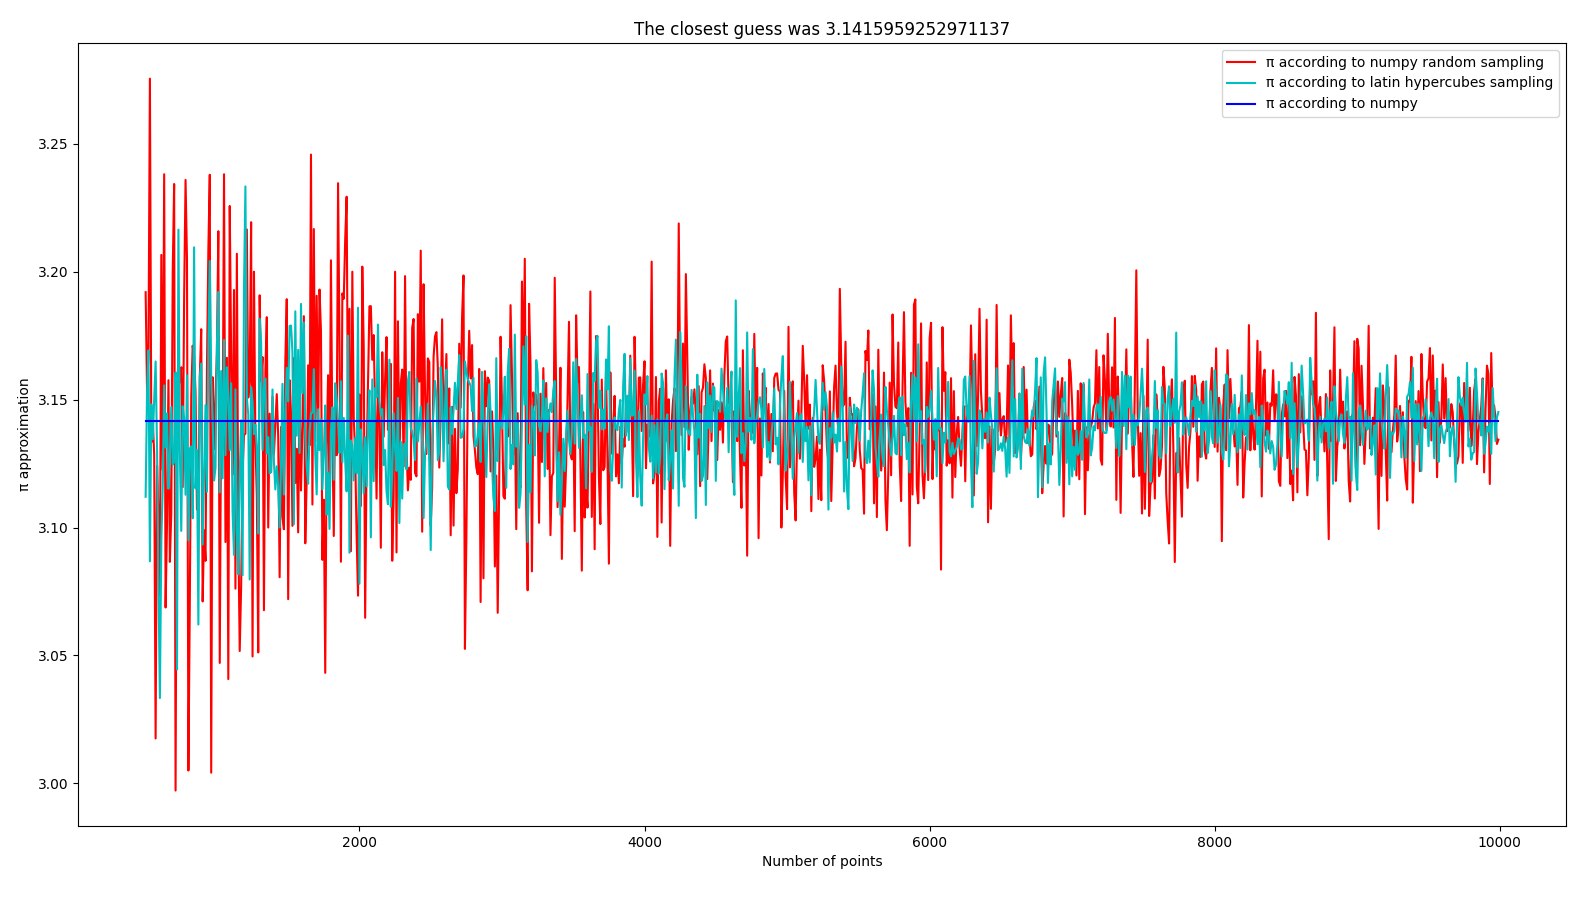
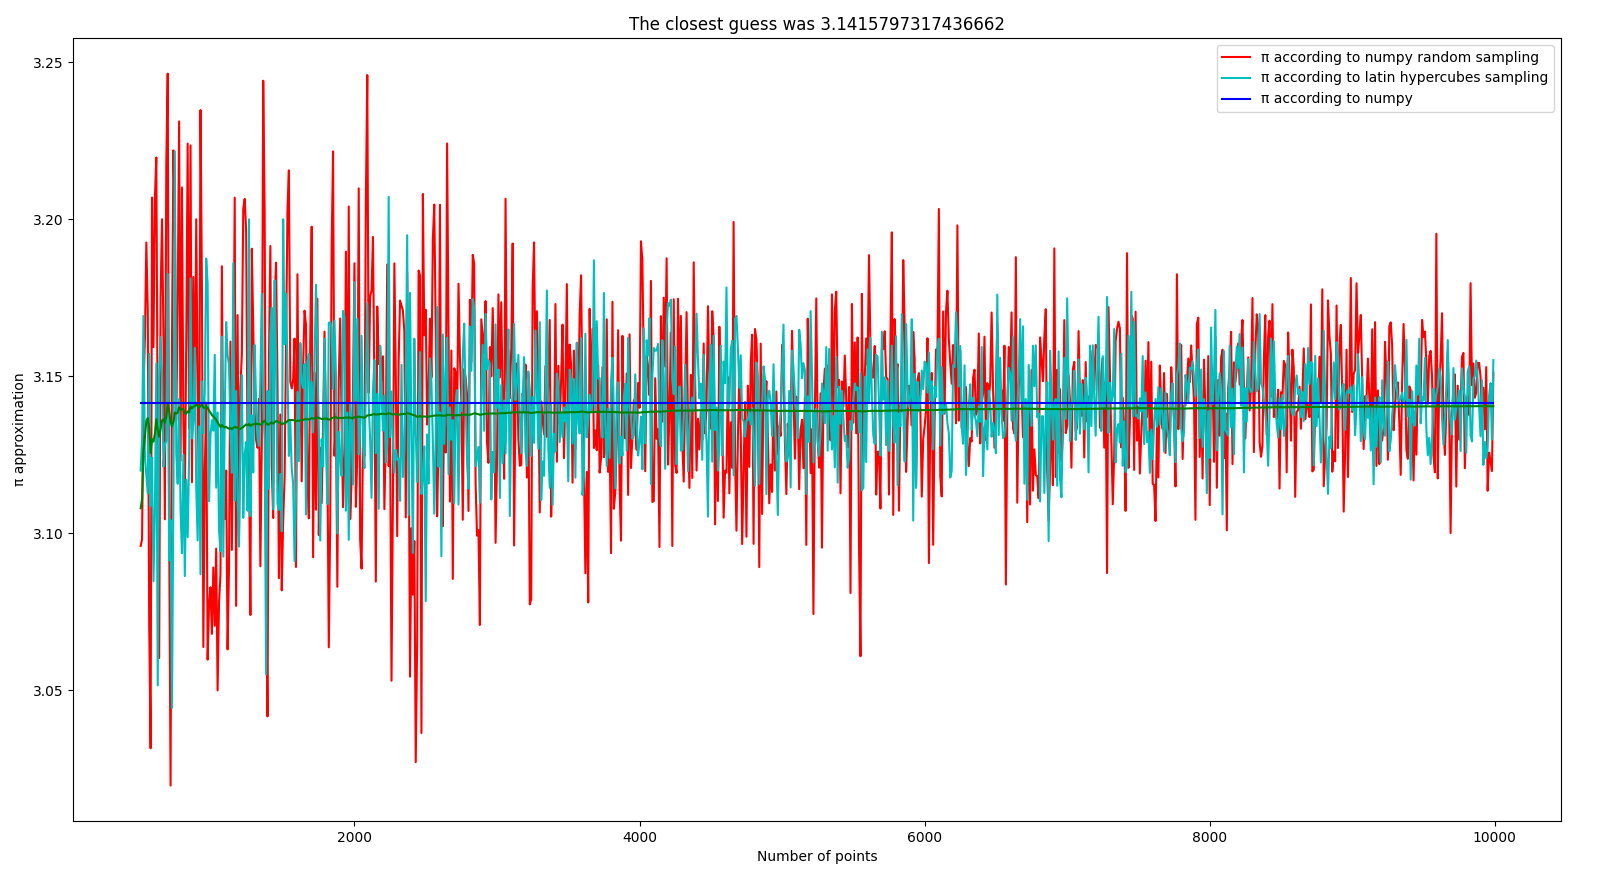
updated to include rolling bag for pi

diff --git a/approximating_pi.py b/approximating_pi.py
@@ -13,6 +13,7 @@ The three lines plotted are:
     the value of pi according to numpy (dark blue)
     the value of pi according to np.random.uniform (red)
     the value of pi according to my latin hypercubes code (cyan)
+    the average value of pi so far (green)
 The most accurate represntation should be the cyan line
 '''
 
@@ -46,8 +47,11 @@ def main():
     high = 10000
     xnp = []
     ynp = []
+    ynpavg = []
     xlatin = []
     ylatin = []
+    ylatinavg = []
+    yavg = []
 
     # a variable to keep track of the closest approximation of pi
     closest_guess = 0
@@ -61,6 +65,7 @@ def main():
 
         xnp.append(i)
         ynp.append(pi)
+        ynpavg.append(sum(ynp)/len(ynp))
 
     # Approximate pi with latin hypercube sampling
     for i in range(low, high, step):
@@ -71,11 +76,15 @@ def main():
 
         xlatin.append(i)
         ylatin.append(pi)
+        ylatinavg.append(sum(ylatin)/len(ylatin))
+
+    yavg = [(ylatinavg[x]+ynpavg[x])/2 for x in range(0, len(ylatinavg))]
 
     plt.figure()
 
     numpypi, = plt.plot(xnp, ynp, '-r', label='π according to numpy random sampling')
     mypi, = plt.plot(xlatin, ylatin, '-c', label='π according to latin hypercubes sampling')
+    avg, = plt.plot(xlatin, yavg, '-g', label='π average')
     actualpi, = plt.plot(xnp, np.full(len(xnp), np.pi), '-b', label='π according to numpy')
 
     plt.title(f'The closest guess was {closest_guess}')

diff --git a/anu_quantumrng.py b/anu_quantumrng.py
@@ -1,0 +1,51 @@
+import numpy as np
+import matplotlib.pyplot as plt
+import random
+import quantumrandom
+
+def int2bin(number: int) -> list:
+    '''
+    Converts an integer into a list of bits
+    '''
+    return list(bin(number)[2:]) # [2:] because the first two characters are 0b
+
+def gen_random_numbers(size):
+    # the length of the array obtained from the api should be an int that has enough bits for size
+    # they are all 2 bytes (16 bits) so you need 1/16th of the size you are looking for
+    length = np.ceil(size/16)
+
+    x = np.array(quantumrandom.get_data(data_type='uint16', array_length=length))
+
+    final_array = []
+    for number in x:
+        final_array.extend(map(int, int2bin(number)))
+        
+    # size will always be smaller than len(final_array) because the length was rounded up
+    # make the list the length of size
+    final_array = final_array[len(final_array)-size:]
+
+    avg = np.mean(final_array)
+
+    return avg
+
+def main():
+    x = []
+    y = []
+
+    for i in range(1, 1024):
+        x.append(i)
+        y.append(gen_random_numbers(i))
+
+    print(x, y)
+
+    plt.figure()
+    plt.plot(x, y, '-r')
+
+    plt.xlabel('Length of list of random numbers')
+    plt.ylabel('Average of random numbers in the list')
+
+    plt.show()
+    return
+
+if __name__=='__main__':
+    main()
